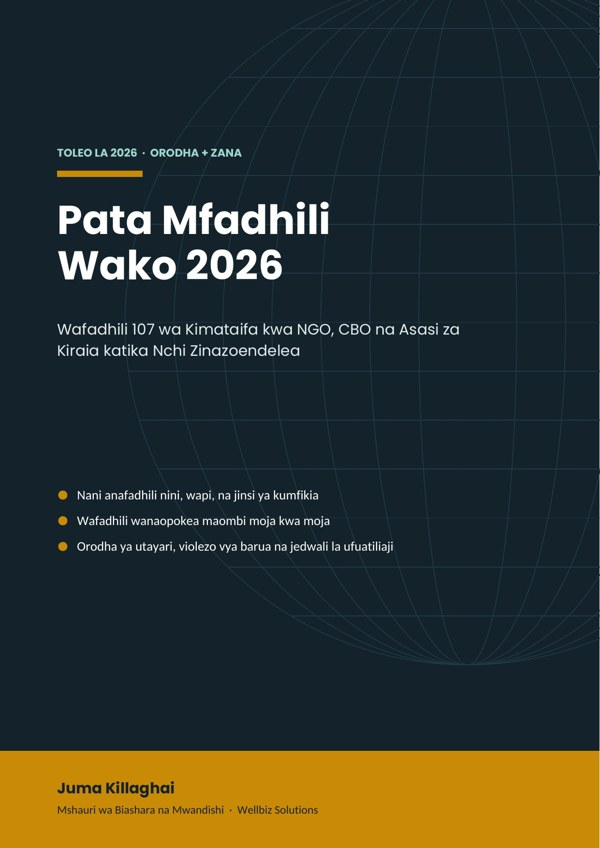
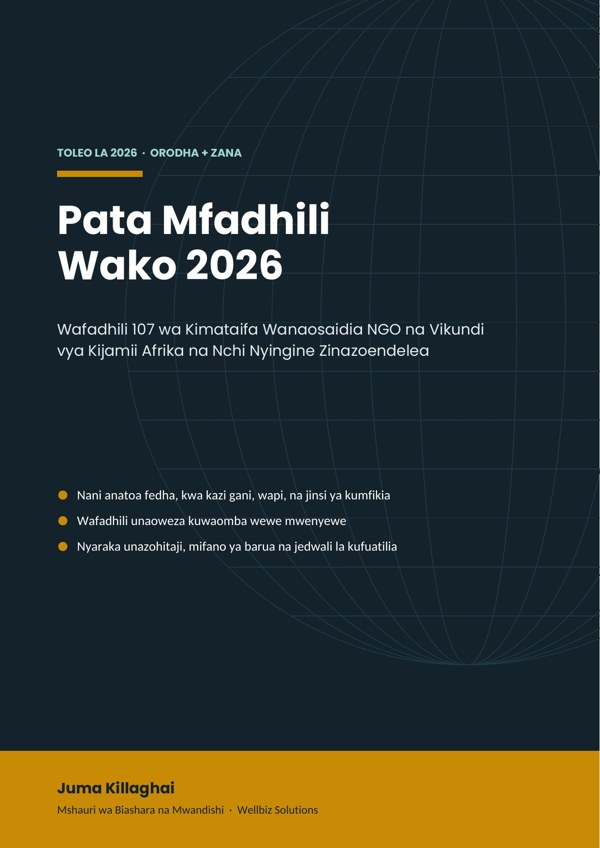
Draft: plainer Swahili kit description in SW article, updated SW cover
Claude-Session: https://claude.ai/code/session_01Uoh4MLAUCZBMykEFqc6Ft4

Changed region(s): [[0.12, 0.5825, 0.66, 0.6745], [0.09, 0.3679, 0.81, 0.4292]]

diff --git a/blog-wafadhili-wa-kimataifa-ngo-2026-sw.html b/blog-wafadhili-wa-kimataifa-ngo-2026-sw.html
@@ -205,14 +205,14 @@
             <img src="/assets/images/ebook-pata-mfadhili-wako-cover-600.jpg" width="600" height="848" alt="Jalada la kitabu Pata Mfadhili Wako 2026: Wafadhili 107 wa Kimataifa kwa NGO, CBO na Asasi za Kiraia, kilichoandikwa na Juma Killaghai" loading="lazy">
             <div>
               <p>Makala hii imekuonyesha wafadhili kumi. Kitabu <a href="{{PAYHIP_SW}}" target="_blank" rel="noopener"><strong>Pata Mfadhili Wako 2026</strong></a> kinakupa <strong>wafadhili wote 107 wa kimataifa pamoja na tovuti 5 za kutafuta ufadhili</strong>, wakiwa wamepangwa kwa aina. Kwa kila mmoja utaona anafadhili nini, maeneo anayofadhili, <strong>shirika la ndani linaweza kumfikiaje</strong>, na hali yake mwaka 2026, ili ujue nani amepunguza bajeti na nani bado anatoa.</p>
-              <p><strong>Pia ndani yake:</strong> orodha ya wafadhili 33 unaoweza kuwafikia moja kwa moja, faharasa kwa mada (afya, elimu, wanawake, tabianchi, kipato na nyinginezo), orodha ya kujipima utayari, hatua nane za kumfikia mfadhili, kiolezo cha barua pepe ya utambulisho, muundo wa andiko la dhana, mwongozo wa kutambua utapeli, na <strong>faili la Excel</strong> lenye orodha unayoweza kuchuja, jedwali la kufuatilia maombi na kalenda ya ufadhili ya miezi 12.</p>
+              <p><strong>Pia ndani yake:</strong> wafadhili 33 unaoweza kuwaomba wewe mwenyewe, wafadhili kwa aina ya kazi (afya, elimu, wanawake, mazingira, kipato na nyinginezo), orodha ya nyaraka unazohitaji, hatua 8 za kumfikia mfadhili, mfano wa barua pepe ya kwanza kwa mfadhili, mwongozo wa kuandika concept note, jinsi ya kuwatambua matapeli, maana ya maneno magumu, na <strong>faili la Excel</strong> lenye orodha nzima, jedwali la kufuatilia maombi na kalenda ya mwaka.</p>
             </div>
           </div>
           <p><strong>Jinsi ya kukipata:</strong></p>
           <ol>
             <li>Bofya <a href="{{PAYHIP_SW}}" target="_blank" rel="noopener">kiungo cha Payhip</a> (au <a href="{{GUMROAD_SW}}" target="_blank" rel="noopener">nunua kupitia Gumroad</a>)</li>
             <li>Bonyeza <strong>"Buy Now"</strong> na ukamilishe malipo</li>
-            <li>Pakua PDF ya kurasa 28 na faili la Excel papo hapo</li>
+            <li>Pakua kitabu (PDF ya kurasa 29) na faili la Excel papo hapo</li>
           </ol>
           <p>Bei yake ni {{PRICE}}. <strong>Ruzuku moja tu unayoipata ina thamani mara mamia zaidi ya hapo.</strong></p>
           <p style="margin:0;"><a class="btn btn-primary" style="text-decoration:none;" href="{{PAYHIP_SW}}" target="_blank" rel="noopener">👉 Pata Mfadhili Wako 2026</a></p>
